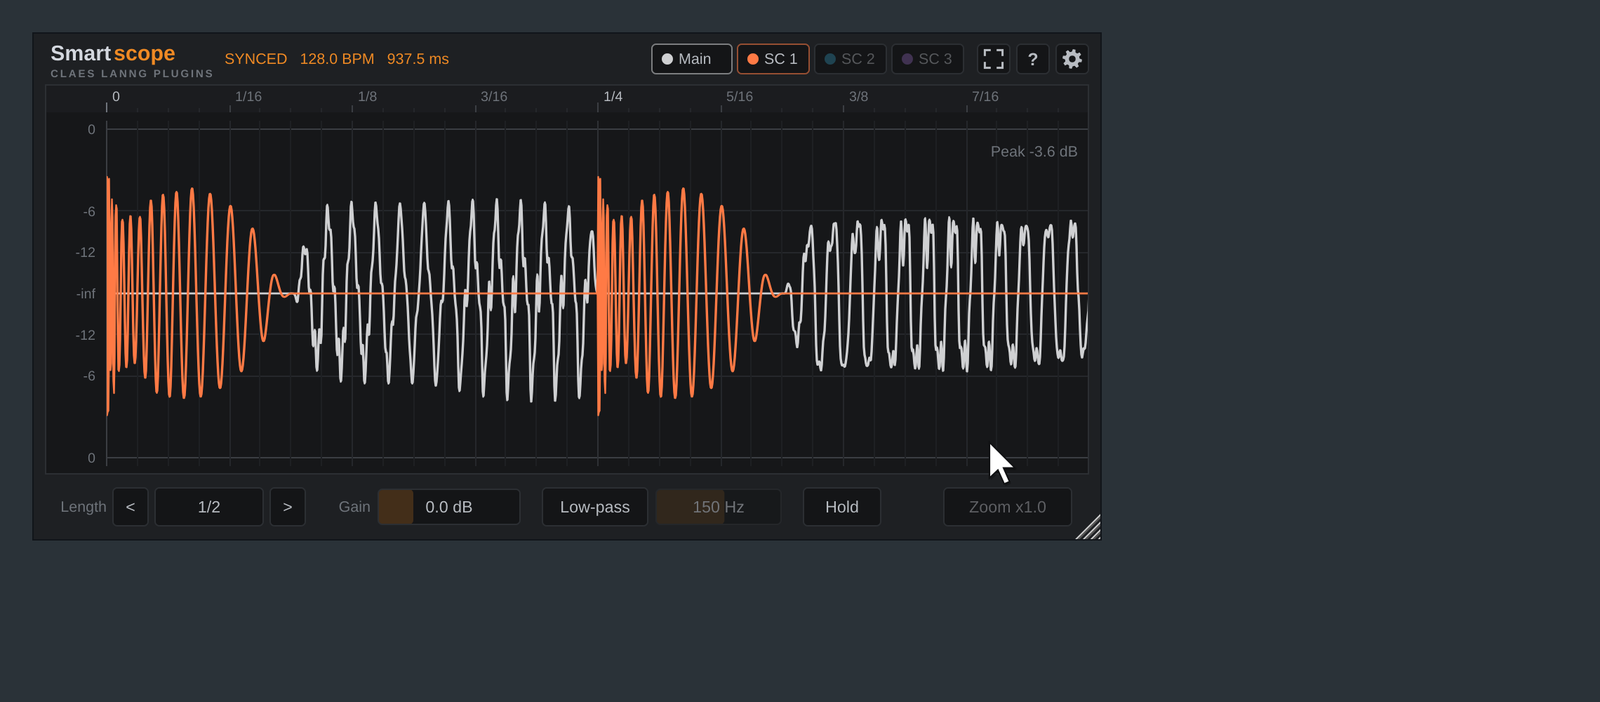
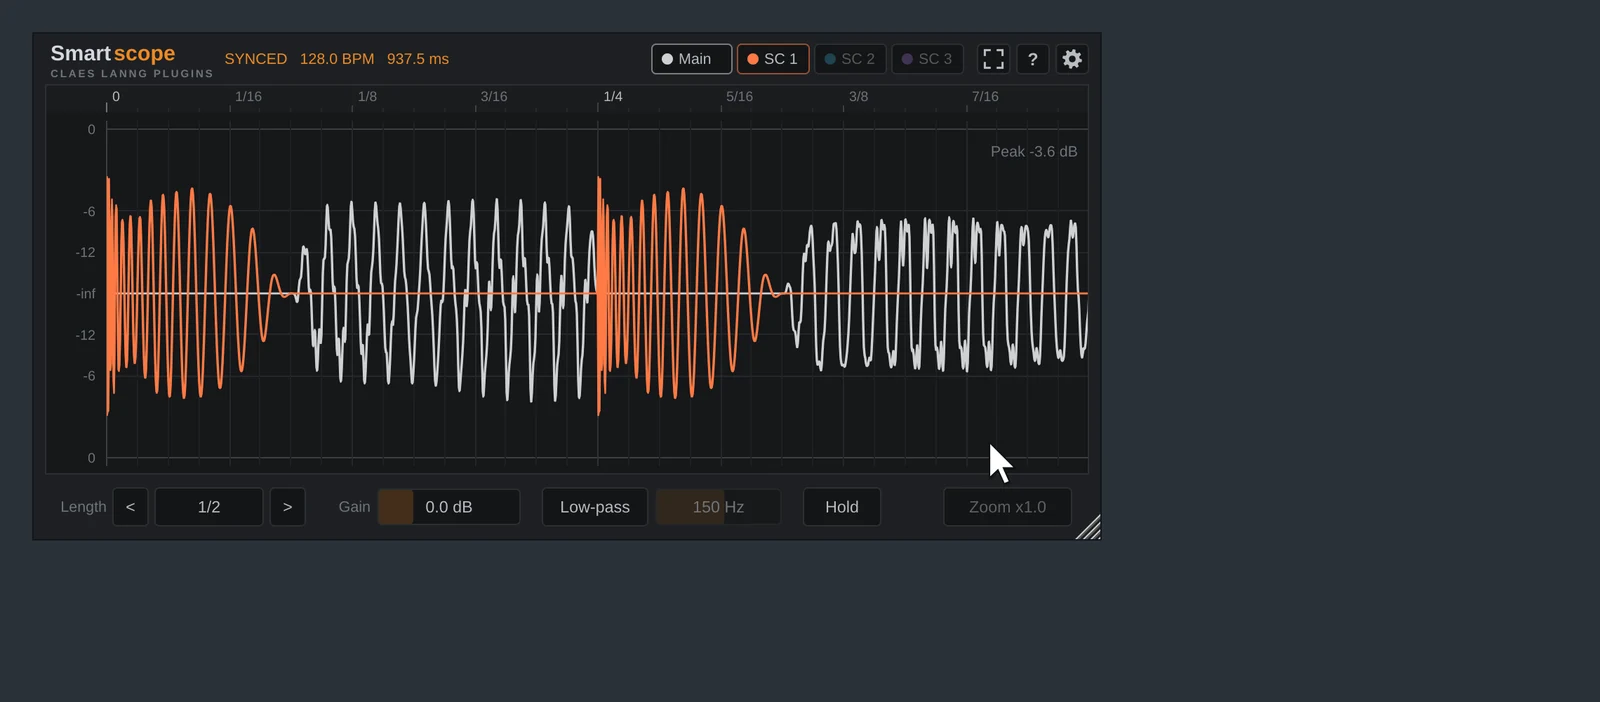
Smartscope: lighter poster images for the two demo loops
The posters load with the page before anything plays. Lossy WebP at
quality 88 brings them from 155-180 KB to 47 KB each, with no visible change.

Claude-Session: https://claude.ai/code/session_01PC7LNGCBCwcv1zY2mMPS58

Changed region(s): [[0.0625, 0.2692, 0.1875, 0.5684], [0.375, 0.2991, 0.5, 0.5684], [0.0625, 0.0598, 0.2812, 0.0897]]

diff --git a/CLAUDE.md b/CLAUDE.md
@@ -41,7 +41,9 @@ page also has JSON-LD (SoftwareApplication) and a canonical link.
   asked for it, 2026-11-19). All respect reduced motion (the loops show controls instead
   of playing) and pause off-screen; one script handles every `.demo-video`. The owner asked for video loops to stay small and subtle, always with a
   line saying what they show. Use a muted looping MP4, not a GIF (a GIF of the same loop
-  was 13 times bigger and limited to 256 colours).
+  was 13 times bigger and limited to 256 colours). Save loop posters as lossy WebP
+  (quality ~88, sharp YUV): they load with the page, before anything plays, and lossless
+  posters were 155–180 KB each against 47 KB.
 - **Screenshots** get a crisp 1 px outline (`--shot-shadow`), never a soft drop shadow:
   the owner found the blurred shadows looked low quality (banding on the dark pages).
 - **Smartscope's name in its two big headings** (the page's `<h1>` and the home-page
